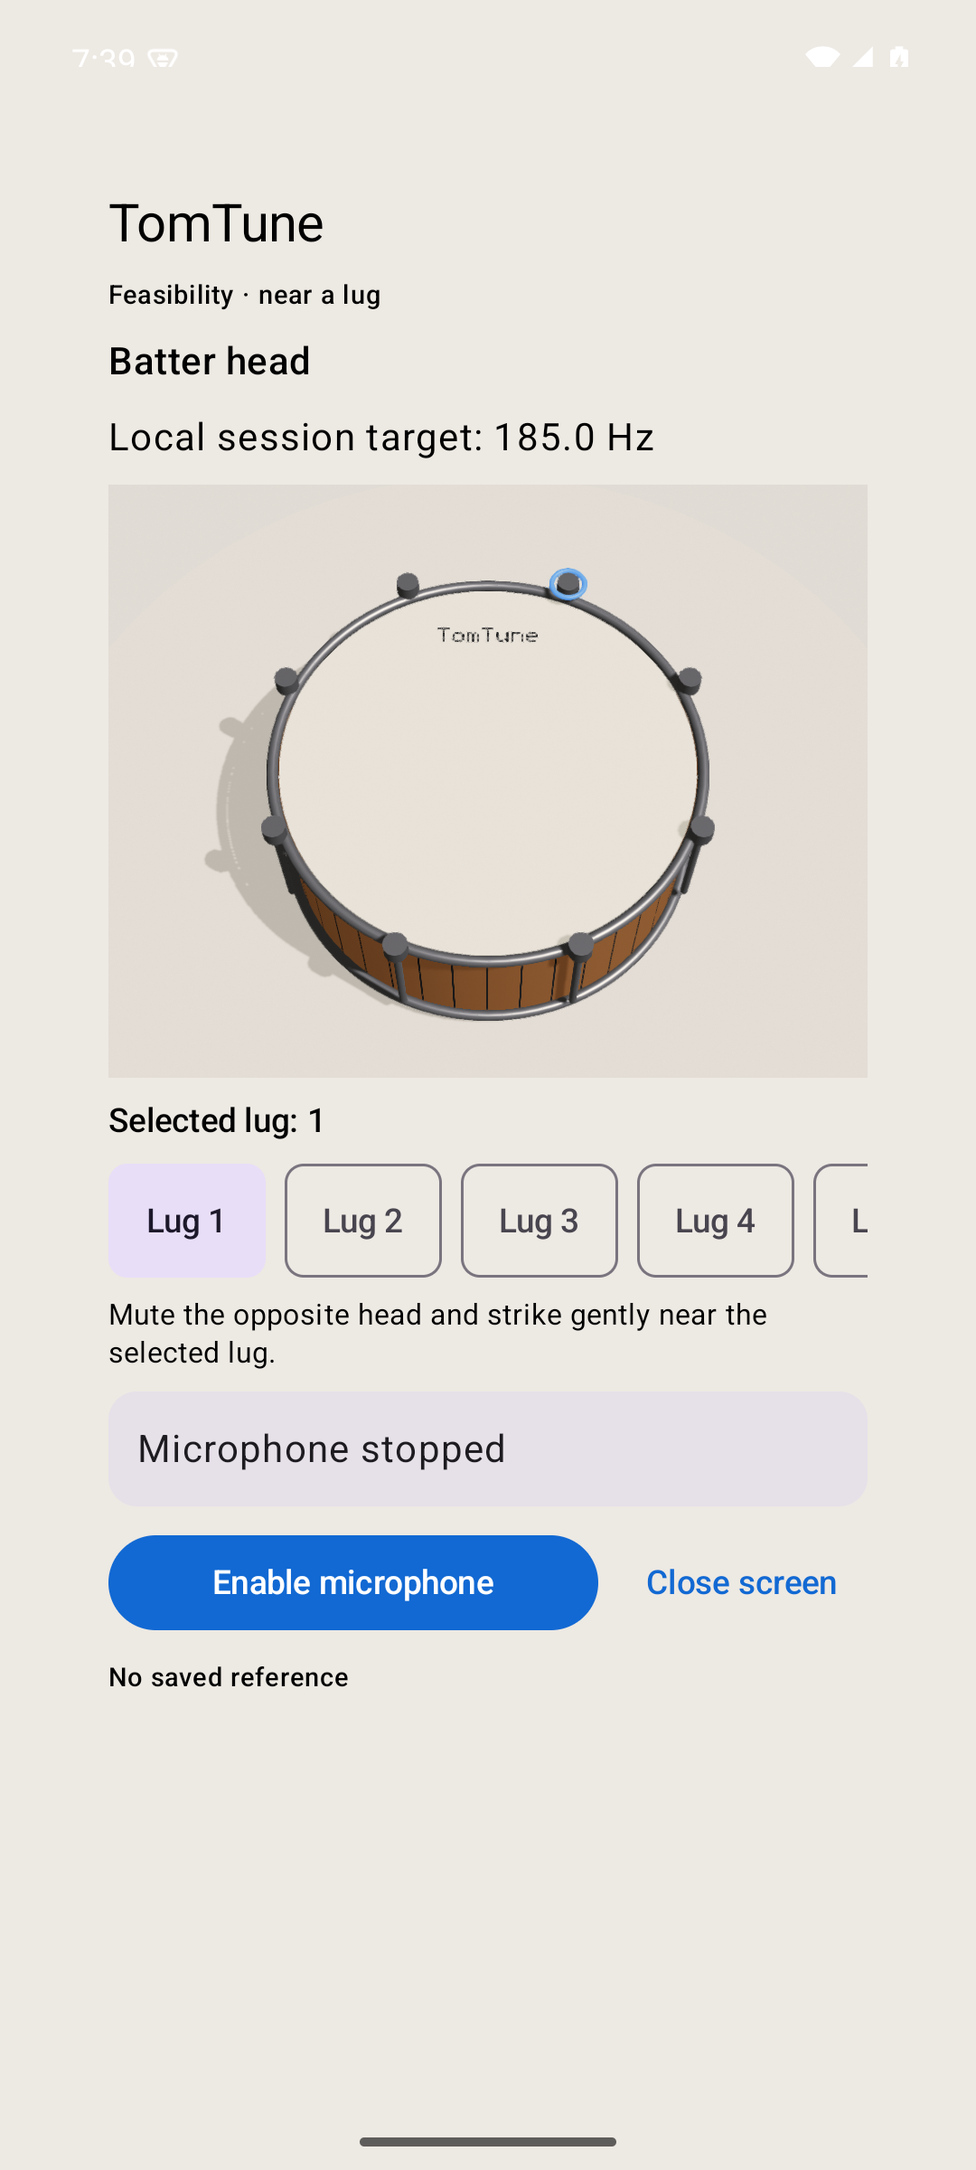
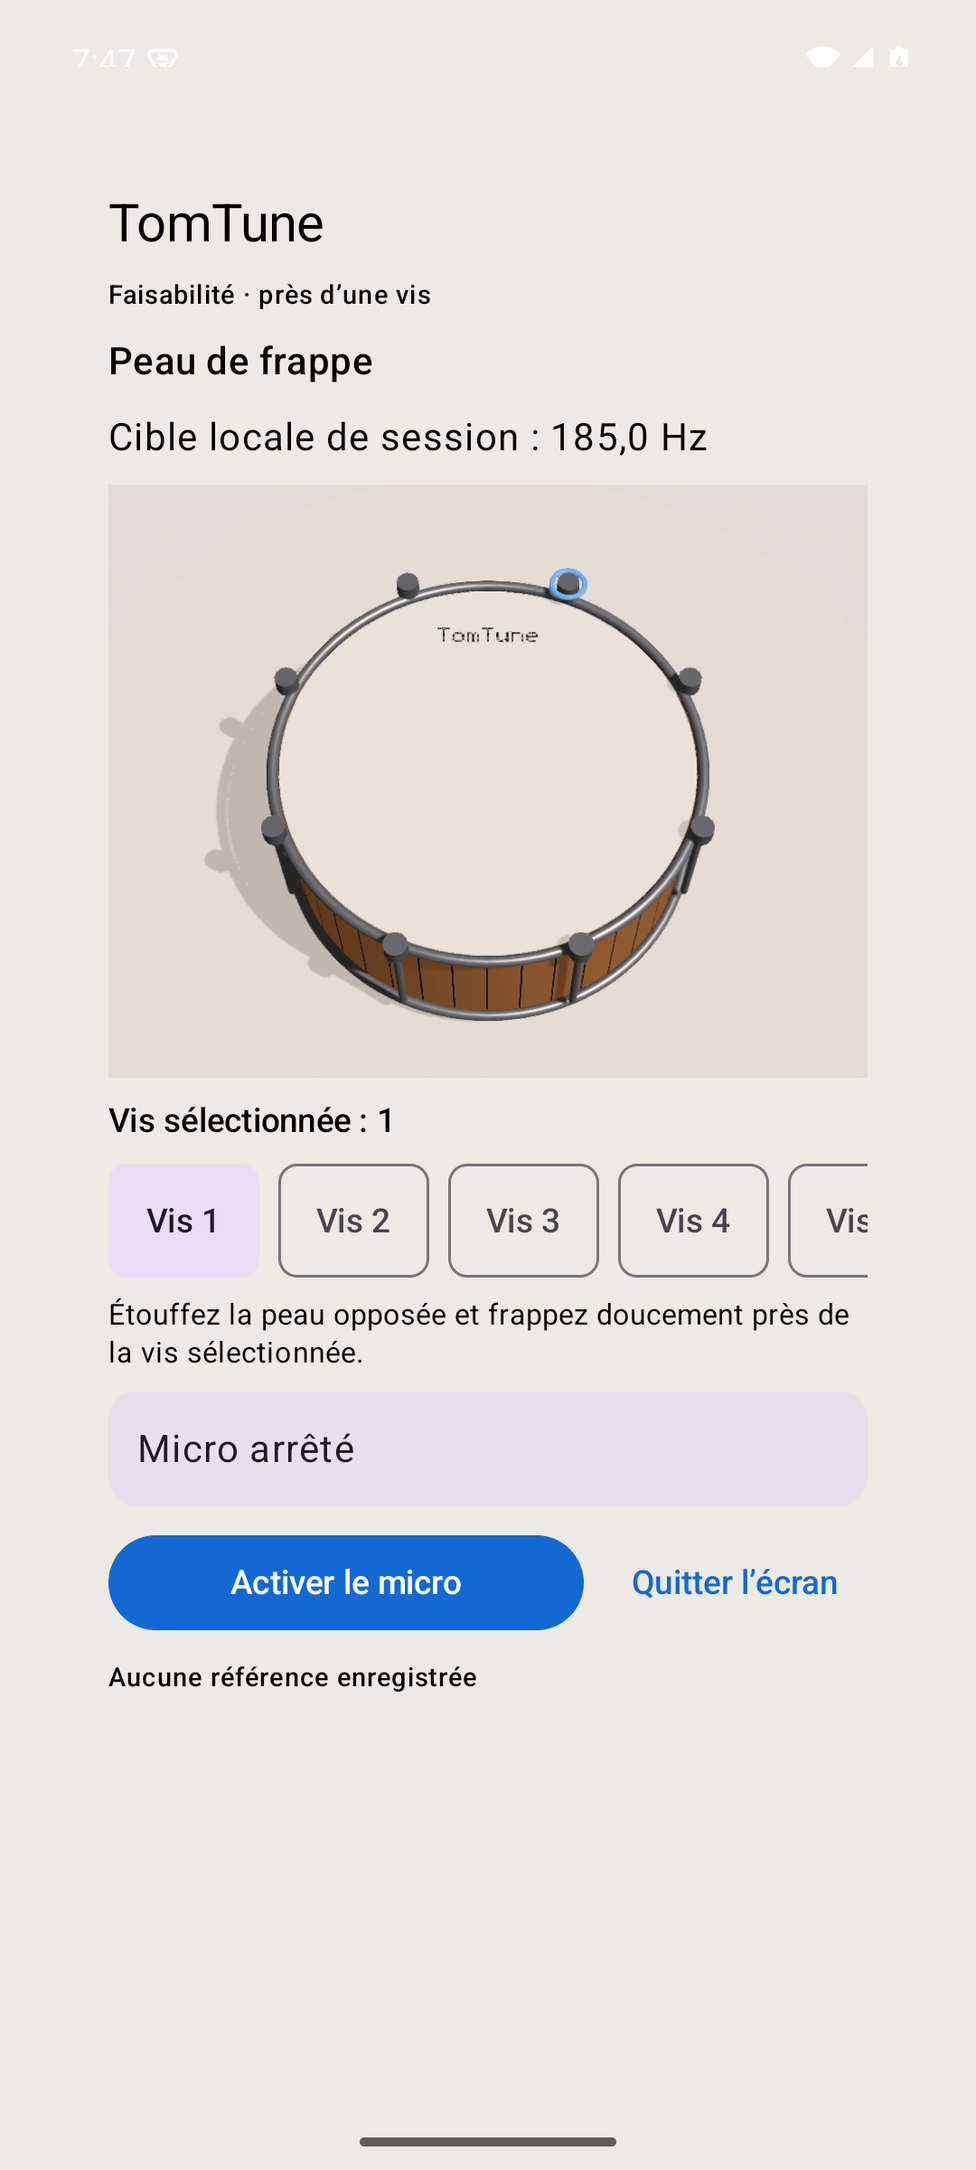
Fix Swift enum bridge and record verified emulator results

diff --git a/iosApp/TomTune/IOSPcmSource.swift b/iosApp/TomTune/IOSPcmSource.swift
@@ -4,6 +4,7 @@ import Shared
 
 /// AVAudioEngine owns capture; only a copied mono buffer leaves its tap.
 /// Kotlin analysis is dispatched by the shared screen, away from UIKit/RealityKit.
+// Kotlin/Native ObjC export lowercases PascalCase enum entries (permissiondenied, routechanged).
 final class IOSPcmSource: NSObject, PcmSource {
     private let lock = NSRecursiveLock()
     private let queue = DispatchQueue(label: "com.tomtune.pcm", qos: .userInitiated)
@@ -36,7 +37,7 @@ final class IOSPcmSource: NSObject, PcmSource {
         lock.unlock()
         let session = AVAudioSession.sharedInstance()
         guard session.recordPermission == .granted else {
-            fail(token: token, issue: .permissionDenied)
+            fail(token: token, issue: .permissiondenied)
             return
         }
         do {
@@ -94,7 +95,7 @@ final class IOSPcmSource: NSObject, PcmSource {
                     self?.queue.async { self?.fail(token: token, issue: .interrupted) }
                 },
                 center.addObserver(forName: AVAudioSession.routeChangeNotification, object: session, queue: nil) { [weak self] _ in
-                    self?.queue.async { self?.fail(token: token, issue: .routeChanged) }
+                    self?.queue.async { self?.fail(token: token, issue: .routechanged) }
                 },
                 center.addObserver(forName: UIApplication.didEnterBackgroundNotification, object: nil, queue: nil) { [weak self] _ in
                     self?.queue.async { self?.fail(token: token, issue: .interrupted) }

diff --git a/shared/src/commonTest/kotlin/com/tomtune/audio/TomStrikeAnalyzerTest.kt b/shared/src/commonTest/kotlin/com/tomtune/audio/TomStrikeAnalyzerTest.kt
@@ -48,8 +48,16 @@ class TomStrikeAnalyzerTest {
     @Test fun silenceNeverDetected() { assertTrue(analyze(FloatArray(rate)).isEmpty()) }
     @Test fun deterministicBroadbandNoiseNeverAccepted() {
         var state = 1234567
-        val samples = FloatArray(rate) { state = state * 1664525 + 1013904223; ((state ushr 8) / 16777216.0 * 0.3 - 0.15).toFloat() }
-        assertTrue(analyze(samples).none { it is StrikeEvent.Estimate })
+        val samples = FloatArray(rate + rate / 5) { index ->
+            if (index < rate / 5) 0f else {
+                state = state * 1664525 + 1013904223
+                ((state ushr 8) / 16777216.0 * 0.3 - 0.15).toFloat()
+            }
+        }
+        val events = analyze(samples)
+        assertEquals(1, events.filterIsInstance<StrikeEvent.Detected>().size)
+        assertEquals(RejectionReason.Noise, events.filterIsInstance<StrikeEvent.Rejected>().single().reason)
+        assertTrue(events.none { it is StrikeEvent.Estimate })
     }
     @Test fun clippingRejected() {
         val events = analyze(signal(185.0, clip = true))

diff --git a/iosApp/TomTune/TomTuneApp.swift b/iosApp/TomTune/TomTuneApp.swift
@@ -42,7 +42,7 @@ private final class PermissionPcmSource: NSObject, PcmSource {
                     return
                 }
                 if granted { self.capture.start(sink: sink) }
-                else { sink.onIssue(issue: .permissionDenied) }
+                else { sink.onIssue(issue: .permissiondenied) }
             }
         }
     }

diff --git a/tools/android_smoke.py b/tools/android_smoke.py
@@ -51,8 +51,11 @@ def assert_released(label):
 
 assert '1080x2400' in adb('shell', 'wm', 'size'), 'Use the documented Pixel 7 emulator.'
 adb('shell', 'pm', 'clear', 'com.tomtune.app')
+adb('shell', 'cmd', 'locale', 'set-app-locales', 'com.tomtune.app', '--locales', 'en')
 adb('shell', 'am', 'start', '-W', '-n', 'com.tomtune.app/.MainActivity')
 wait_text('Enable microphone')
+tap_text('Lug 2')
+wait_text('Selected lug: 2')
 # Native cap coordinates for the fixed camera and the documented Pixel 7 scene bounds.
 for index, (x, y) in enumerate([(628,646),(764,749),(777,914),(642,1044),(437,1044),(303,914),(316,749),(451,646)]):
     adb('shell', 'input', 'tap', str(x), str(y))
@@ -85,5 +88,12 @@ wait_text('This screen is closed. The microphone has been released.')
 assert_released('closed screen')
 tap_text('Return to feasibility')
 wait_text('Microphone stopped')
-print('reopened: native scene recreated and capture requires explicit activation', flush=True)
+end = time.monotonic() + 30
+while True:
+    adb('shell', 'input', 'tap', '628', '646')
+    if any(n.get('text') == 'Selected lug: 1' for n in ui().iter('node')):
+        break
+    assert time.monotonic() < end, 'Reopened native scene did not select lug 1'
+    time.sleep(.5)
+print('reopened: native scene recreated, lug 1 selected from lug 2, capture requires explicit activation', flush=True)
 print('PASS — emulator simulation only; no real strike or hardware latency measured.', flush=True)

diff --git a/docs/lot0/RESULTATS.md b/docs/lot0/RESULTATS.md
@@ -19,16 +19,17 @@ Les contrats ont été écrits avant les délégations. Audio et rendu ont trava
 | WAV synthétique fourni | **8 détections, 8 estimations, 0 rejet, 0 frappe manquée, 0 doublon** ; erreur absolue maximale ≈ **0,014 cent**, tolérance ±12 cents. |
 | Délais WAV | Détection à impact +5 ms, résultat +320 ms en **temps du signal injecté**. Ne mesure ni latence matérielle, ni affichage UI, ni charge du GPU. |
 | Cas déterministes | Secondaire dominant inharmonique et proche octave, octave exacte, ambiguïté persistante rejetée, fréquence 317 Hz indépendante de la cible 185 Hz, silence, bruit, saturation, décroissance, 44,1 kHz et repliement spectral. |
-| Modèles 3D | 4 GLB reproductibles ; buffers, indices, angles et identités contrôlés. Tests du repère pour N=5,6,8,10 réussis. Aucune image GPU observée localement. |
+| Modèles 3D | 4 GLB reproductibles ; buffers, indices, angles et identités contrôlés. Tests du repère pour N=5,6,8,10 réussis. Scène observée dans l’émulateur Android 35 ARM64 / SwiftShader : coque, cercle bas, logo et halo visibles. Voir `preuves/android-emulateur.png`. |
 | Build iOS local | **Bloqué** : seul CommandLineTools est installé ; `xcodebuild` exige Xcode complet. `plutil` valide le projet/plist ; `swiftc -frontend -parse` valide la syntaxe Swift, sans vérifier les types UIKit/RealityKit ou le pont Kotlin. |
 | CI iOS | Workflow macOS/Xcode 16.4 fourni ; son résultat est à consigner après publication de la branche. |
+| Simulation Android | **Réussie** sur Pixel 7 virtuel Android 35 ARM64 / SwiftShader : sélection native des huit vis, refus puis accord micro, capture AudioRecord et scène simultanées, libération après arrière-plan et fermeture, reprise explicite et picking après réouverture. Ressources/format numérique FR/EN/ES/DE vérifiés. Voir `preuves/android-smoke.log` et `preuves/android-langues.log`. Aucun signal de vrai tom injecté par le micro virtuel. |
 | Téléphones physiques et vrai tom | **Non exécutés**. `adb devices -l` ne liste aucun appareil. Pas de Xcode pour inventorier un iPhone. Aucun test micro, permission réelle, interruption réelle, rendu ou latence physique revendiqué. |
 
 Les seuils sont des paramètres de faisabilité à calibrer sur de vrais toms, pas des garanties produit. Les essais instrumentés ci-dessous restent nécessaires pour conclure sur Kotlin/Compose pour TomTune.
 
 ## Commandes exécutées
 
-La machine ne possédait initialement ni JDK fonctionnel, ni Gradle, SDK Android, Xcode complet ou `gh`. Le JDK Temurin 17.0.21.1 et Gradle 8.14.3 ont été téléchargés dans `/private/tmp/tomtune-tools`, le cache Gradle dans `/private/tmp/tomtune-gradle`. Distribution Gradle vérifiée par SHA-256 officiel, empreinte épinglée dans le wrapper. SDK Android temporaire installé au même endroit via sdkmanager. Les chemins temporaires ne sont pas des prérequis du dépôt.
+La machine ne possédait initialement ni JDK fonctionnel, ni Gradle, SDK Android, Xcode complet ou `gh`. Le JDK Temurin 17.0.21.1 et Gradle 8.14.3 ont été téléchargés dans `/private/tmp/tomtune-tools`, le cache Gradle dans `/private/tmp/tomtune-gradle`. Distribution Gradle vérifiée par SHA-256 officiel, empreinte épinglée dans le wrapper. SDK Android temporaire, émulateur et image Google APIs Android 35 ARM64 installés au même endroit via sdkmanager. GitHub CLI temporaire installé pour créer la PR après le refus 403 du connecteur. Les chemins temporaires ne sont pas des prérequis du dépôt.
 
 Pour les commandes Gradle locales, variables utilisées :
 
@@ -55,6 +56,12 @@ export ANDROID_HOME=/private/tmp/tomtune-tools/android-sdk
 | `plutil -lint iosApp/TomTune.xcodeproj/project.pbxproj iosApp/TomTune/Info.plist` | Réussi. |
 | `xcodebuild -project iosApp/TomTune.xcodeproj -scheme TomTune -sdk iphonesimulator -configuration Debug CODE_SIGNING_ALLOWED=NO build` | Bloqué par Xcode absent, voir `preuves/ios-build.log`. |
 | `ANDROID_USER_HOME=… adb devices -l` | Serveur démarré, liste vide. |
+| `sdkmanager 'emulator' 'system-images;android-35;google_apis;arm64-v8a'`, `avdmanager create avd --name tomtune_lot0 …` | Réussis après acceptation de la licence de l’image ; émulateur headless SwiftShader lancé. |
+| `python3 tools/android_smoke.py --adb …/platform-tools/adb --serial emulator-5554` | Réussi sur l’appareil virtuel documenté ; aucun essai physique. |
+| `adb shell cmd locale set-app-locales com.tomtune.app --locales fr` (puis es/de/en) et inspection XML UI | Quatre langues et séparateurs numériques vérifiés. |
+| `git push -u origin codex/lot0-faisabilite`, `gh pr create --draft …` | Branche publiée ; [PR brouillon #1 et diff](https://github.com/calabo-Act21/TomTune/pull/1/files). |
+| Première CI Linux | Détecte différence de derniers bits libm dans les GLB et ancien défaut setup-android demandant le package `tools` retiré. Normalisation à 8 décimales et demande explicite `platform-tools` corrigent ; jobs signaux et Android suivants réussis. |
+| Première CI Xcode | Code Kotlin et framework ARM64 compilés ; sync des ressources échouée avec ARCHS générique incluant x86_64. Projet Xcode explicitement aligné ARM64 ; copie des ressources et scène RealityKit compilées au second passage. Deux noms d’enum PascalCase exportés en minuscules par Kotlin/Native ont ensuite nécessité une correction Swift ; vérification suivante en cours. |
 | `git diff --check` | Aucun défaut d’espacement. |
 
 ## Reproduire les builds
@@ -68,7 +75,7 @@ python3 tools/generate_tom.py --check
 adb install -r composeApp/build/outputs/apk/debug/composeApp-debug.apk
 ```
 
-Mac avec Xcode 16.4 et composants iOS installés (la toolchain Kotlin 2.2.20 est épinglée) :
+Mac Apple Silicon avec Xcode 16.4 et composants iOS installés (la toolchain Kotlin 2.2.20 est épinglée) :
 
 ```sh
 sudo xcode-select -s /Applications/Xcode.app/Contents/Developer
@@ -78,7 +85,7 @@ xcodebuild -project iosApp/TomTune.xcodeproj -scheme TomTune \
 ./gradlew :shared:iosSimulatorArm64Test
 ```
 
-Pour un iPhone : ouvrir `iosApp/TomTune.xcodeproj`, sélectionner l’équipe de signature et l’appareil, lancer le scheme TomTune. Le script Xcode construit le framework `Shared` avec `embedAndSignAppleFrameworkForXcode`. Un simulateur ne valide pas le micro d’un iPhone ni le rendu réel d’un téléphone. La source de test `WavPcmSource(bytes, scope)` peut être substituée au `PcmSource` ; son PCM traverse le même analyseur, sans playback.
+Pour un iPhone : ouvrir `iosApp/TomTune.xcodeproj`, sélectionner l’équipe de signature et l’appareil, lancer le scheme TomTune. Le script Xcode construit le framework `Shared` avec `embedAndSignAppleFrameworkForXcode`. Les cibles iOS sont ARM64 (téléphones et simulateur Apple Silicon). Un simulateur ne valide pas le micro d’un iPhone ni le rendu réel d’un téléphone. La source de test `WavPcmSource(bytes, scope)` peut être substituée au `PcmSource` ; son PCM traverse le même analyseur, sans playback.
 
 ## Protocole restant sur téléphones physiques
 

diff --git a/docs/lot0/AUDIO.md b/docs/lot0/AUDIO.md
@@ -37,10 +37,10 @@ GRADLE_USER_HOME=/private/tmp/tomtune-gradle \
   :shared:jvmTest wrapper --gradle-version 8.14.3 --distribution-type bin --console=plain
 ```
 
-Premier passage avant ajout du FIR et des tests 44,1 kHz/anti-repliement : **BUILD SUCCESSFUL**, 13 tests audio et 2 tests géométriques. Le rapport d’intégration du principal donne le résultat final après ces ajouts. Les huit impacts du WAV sont reconnus une seule fois, avec une estimation chacun ; tolérance de test ±12 cents et détection ±10 ms. Résultats pré-FIR : 178,00097 / 184,99852 / 192,00144 / 184,99852 / 178,00097 / 192,00144 / 184,99852 / 192,00144 Hz ; erreur maximale absolue 0,014 cent. Temps **dans le signal injecté**, attaque → détection +5 ms, attaque → résultat +320 ms. Ces chiffres ne mesurent pas la latence téléphone, les files UI ni la charge du rendu.
+Premier passage avant ajout du FIR et des tests 44,1 kHz/anti-repliement : **BUILD SUCCESSFUL**, 13 tests audio et 2 tests géométriques. Le rapport d’intégration du principal donne le résultat final après ces ajouts : 17 tests audio, 2 géométriques et 4 de session réussis sur JVM ; 22 tests communs réussis sur le variant Android. Les huit impacts du WAV sont reconnus une seule fois, avec une estimation chacun ; tolérance de test ±12 cents et détection ±10 ms. Résultats pré-FIR : 178,00097 / 184,99852 / 192,00144 / 184,99852 / 178,00097 / 192,00144 / 184,99852 / 192,00144 Hz ; erreur maximale absolue 0,014 cent. Temps **dans le signal injecté**, attaque → détection +5 ms, attaque → résultat +320 ms. Ces chiffres ne mesurent pas la latence téléphone, les files UI ni la charge du rendu.
 
 Tests déterministes : frappe simple/décroissance, secondaire inharmonique 311 Hz plus fort mais amorti, secondaire 378 Hz proche du double et amorti, octave exacte 185/370 Hz avec composante basse visible, modes persistants 185/263 Hz rejetés, 317 Hz éloigné de la cible affichée, silence, bruit pseudo-aléatoire à graine fixe, saturation, chunking 127/1024 identique, retour détection séparé du résultat, deux frappes séparées par un retour au calme ; compléments 44,1 kHz réel, anti-repliement et absence de sous-harmonique inventé, démarrage/réinitialisation au milieu d’une décroissance puis nouvelle frappe après le calme.
 
-Aucun essai micro sur téléphone ni sur vrai tom n’a été effectué par l’agent audio. Restent à vérifier : build natif, permission refusée puis accordée, interruption téléphonique, changement de route, sortie/arrière-plan, témoin micro éteint après libération, plusieurs reprises sans capture doublée, rendu et sélection simultanés, latence filmée impact/retour/Hz, erreurs de résonance, rejets et frappes manquées. Consigner appareil/OS, diamètre, peau opposée étouffée, distance et orientation, pièce, méthode de référence et erreurs en cents séparément des rejets. Ne pas conclure la fiabilité physique à partir des seuls tests JVM.
+Le principal a vérifié AudioRecord et le rendu simultanés en émulation Android, ainsi que refus/accord de permission et libération ; aucun essai micro sur téléphone physique ni sur vrai tom n’a été effectué. Restent à vérifier : build natif, permission refusée puis accordée, interruption téléphonique, changement de route, sortie/arrière-plan, témoin micro éteint après libération, plusieurs reprises sans capture doublée, rendu et sélection simultanés, latence filmée impact/retour/Hz, erreurs de résonance, rejets et frappes manquées. Consigner appareil/OS, diamètre, peau opposée étouffée, distance et orientation, pièce, méthode de référence et erreurs en cents séparément des rejets. Ne pas conclure la fiabilité physique à partir des seuls tests JVM.
 
 Références API consultées : [AudioRecord](https://developer.android.com/reference/android/media/AudioRecord), [AVAudioEngine — Apple WWDC](https://devstreaming-cdn.apple.com/videos/wwdc/2014/502xxvo7vov799k/502/502_avaudioengine_in_practice.pdf).

diff --git a/docs/lot0/VALIDATION.md b/docs/lot0/VALIDATION.md
@@ -12,10 +12,10 @@ Sous-agent `validation` configuré dans `.codex/agents/validation.toml`, revue e
 | P2 | Après surcharge, `listening=false` pouvait retarder la fermeture jusqu’à un effet Compose | `interrupt()` ferme inconditionnellement la capture, même après une faute, et conserve sa cause. Test surcharge puis arrière-plan vérifie la libération sans attendre l’UI. |
 | Observation | Android arrière-plan effaçait la cause | `onStop` passe par `interrupt()` et demande une reprise explicite. |
 
-Les constats corrigés ont été relus par l’agent ; la dernière correction de fermeture inconditionnelle et son test sont intégrés dans le journal final du principal.
+Les correctifs ont été relus par l’agent, y compris la fermeture inconditionnelle et son test. Sa seconde revue ne trouve aucun nouveau défaut concret P1/P2. Le smoke a été renforcé selon sa remarque : présélection de la vis 2 avant la boucle native et sélection native de la vis 1 après réouverture ; le scénario renforcé passe.
 
 ## Portée des preuves
 
-Build Android réel et tests de signaux réussis ; tests de fermeture/reprise avec sources injectées. Le WAV est synthétique ; les temps du signal ne sont pas les latences d’affichage ou matérielles. Les GLB ont des contrôles structurels, pas une validation photographique. La syntaxe Swift locale ne prouve pas le pont Kotlin ni RealityKit ; la CI iOS doit construire et lancer.
+Build Android réel et tests de signaux réussis ; tests de fermeture/reprise avec sources injectées. Le WAV est synthétique ; les temps du signal ne sont pas les latences d’affichage ou matérielles. Les GLB ont des contrôles structurels et le rendu a été observé sous SwiftShader : le reviewer confirme coque, cercle inférieur, logo, halo et contrôles micro visibles simultanément. Cela ne vaut pas une validation sur GPU de téléphone. La syntaxe Swift locale ne prouve pas le pont Kotlin ni RealityKit ; la CI iOS doit construire et lancer.
 
 La revue exige encore des essais natifs de permissions, interruptions/routes, fermeture et rendu/picking, puis des essais simultanés micro/3D sur Android et iPhone près d’une vis d’un vrai tom avec l’autre peau étouffée. Aucune conclusion physique positive n’est tirée des seuls tests synthétiques. Procédure et feuille de relevé dans [RESULTATS.md](RESULTATS.md).

diff --git a/docs/lot0/RENDU.md b/docs/lot0/RENDU.md
@@ -1,6 +1,6 @@
 # Rendu 3D — lot 0
 
-Implémentation initiale, sans essai graphique sur appareil dans cette session.
+Scène observée dans un émulateur Android 35 ARM64 / SwiftShader (capture et smoke dans `preuves/`). Aucun essai sur téléphone physique dans cette session.
 
 ## Géométrie et intégration
 
@@ -15,10 +15,10 @@ Implémentation initiale, sans essai graphique sur appareil dans cette session.
 
 ## Commandes et résultats
 
-- `python3 tools/generate_tom.py` : succès, quatre fichiers GLB autonomes créés (environ 166 Ko chacun). Générateur Python standard uniquement, aucune ressource distante/licence tierce.
+- `python3 tools/generate_tom.py` : succès, quatre fichiers GLB autonomes créés (environ 164 Ko chacun). Générateur Python standard uniquement, aucune ressource distante/licence tierce.
 - `swiftc -parse iosApp/TomTune/TomSceneViewController.swift` : succès (syntaxe seulement, pas un build RealityKit/iOS).
 - `LugLayoutTest` : nombre, rayon, espacement, symétrie, indices et logo entre les vis supérieures pour 5,6,8,10 ; sélections invalides refusées. Exécution intégrée par l’agent principal.
-- `python3 tools/generate_tom.py --check` : succès pour N=5,6,8,10 ; noms/nombre/angles des vis et halos, indices de triangles, accessors/buffers et octets reproductibles. Ce contrôle structurel ne prouve pas le rendu visuel sur GPU.
+- `python3 tools/generate_tom.py --check` : succès pour N=5,6,8,10 ; noms/nombre/angles des vis et halos, indices de triangles, accessors/buffers et octets reproductibles. Ce contrôle structurel ne remplace pas la capture du rendu en émulation ni les essais sur GPU de téléphone.
 
 ## Sources consultées
 

diff --git a/README.md b/README.md
@@ -6,7 +6,7 @@ Prototype du lot 0 en Kotlin Multiplatform et Compose Multiplatform pour Android
 - [Résultats, commandes et protocole sur téléphone](docs/lot0/RESULTATS.md)
 - [Paramètres audio et limites](docs/lot0/AUDIO.md), [rendu](docs/lot0/RENDU.md), [contrats](docs/lot0/CONTRATS.md)
 
-JDK 17 requis ; SDK Android API 36 pour Android, Xcode 16.4 sur Mac pour iOS.
+JDK 17 requis ; SDK Android API 36 pour Android, Xcode 16.4 sur Mac Apple Silicon pour iOS.
 
 ```sh
 ./gradlew -Pmobile=false :shared:jvmTest
